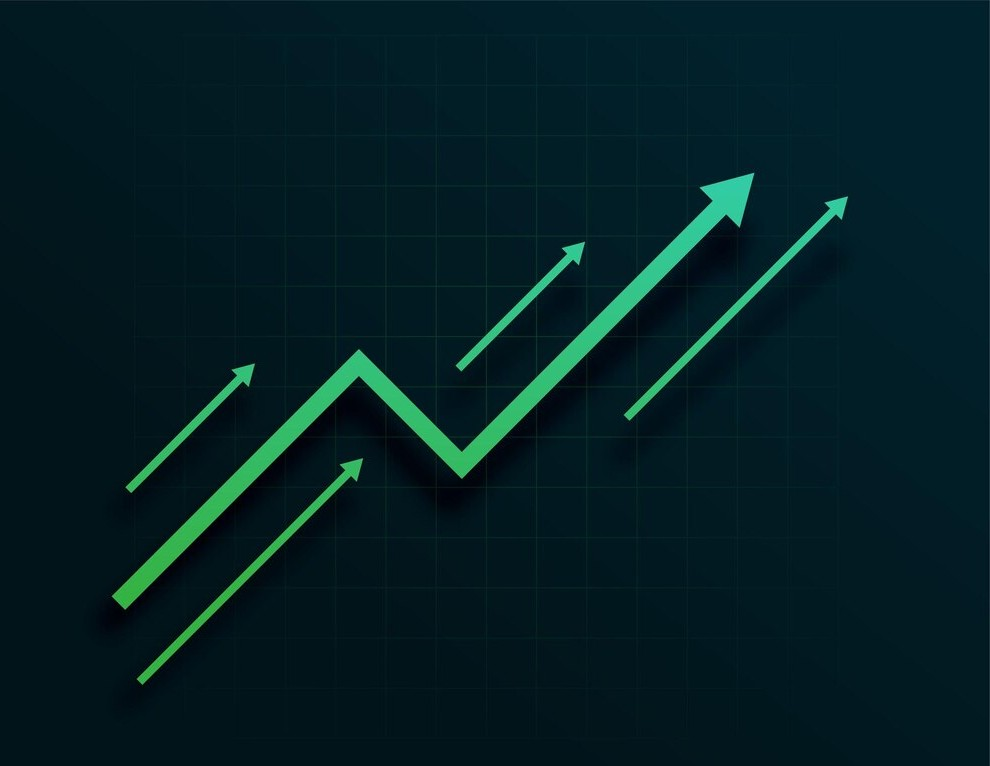
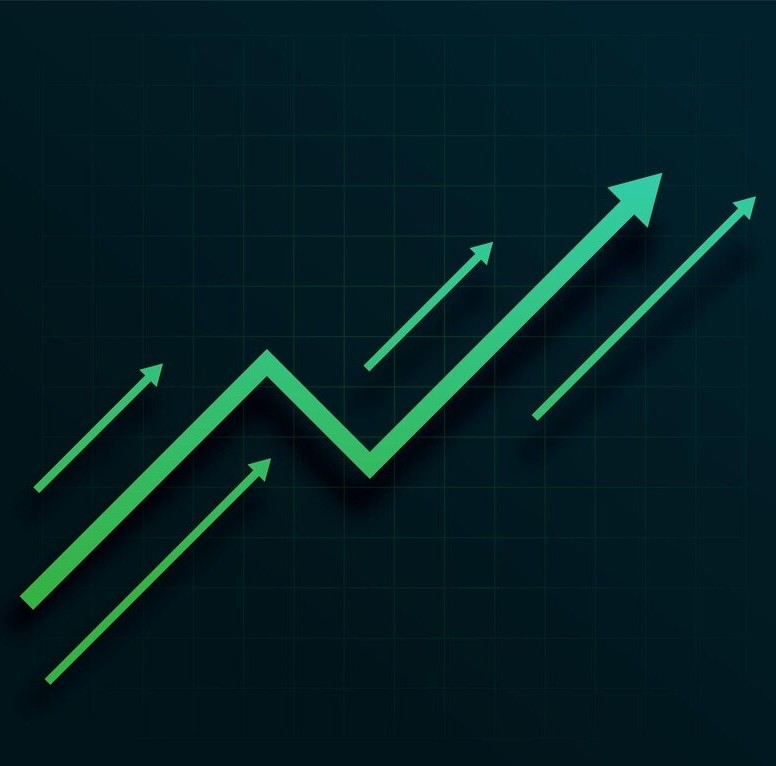
some refactor

diff --git a/src/Assets/CSS/Home.css b/src/Assets/CSS/Home.css
@@ -122,38 +122,94 @@
   margin: 0;
   font-size: 1.2rem;
 }
-.key-stakeholders {
+/* Add this CSS for the title */
+.section-title {
+  font-family: 'Poppins', sans-serif; /* Modern font */
+  font-size: clamp(2rem, 5vw, 3rem); /* Responsive font size */
+  font-weight: 700;
+  text-align: center;
+  color: #2d3748;
+  margin-bottom: 2rem;
+  letter-spacing: -0.5px;
+  line-height: 1.2;
+  text-transform: capitalize;
   position: relative;
-  width: 100%;
-  background-color: #f8f9fa; /* Light background for the logos section */
-  padding: 20px 0; /* Adjust padding as necessary */
+  padding-bottom: 0.5em;
+}
+
+.section-title::after {
+  content: '';
+  position: absolute;
   bottom: 0;
-  box-shadow: none; /* Remove shadow */
+  left: 50%;
+  transform: translateX(-50%);
+  width: 80px;
+  height: 3px;
+  background: #4299e1; /* Accent color */
+  border-radius: 2px;
 }
 
-.key-stakeholders .container {
-  display: flex;
-  justify-content: center;
+/* Add this to your CSS imports or HTML head */
+/* <link href="https://fonts.googleapis.com/css2?family=Poppins:wght@400;500;700&display=swap" rel="stylesheet"> */
+.key-stakeholders {
+  overflow: hidden;
+  padding: 2rem 0;
+  background: transparent;
+  position: relative;
 }
 
-.key-stakeholders .logo-container {
+.logo-track {
   display: flex;
+  width: 200%; /* Double width for seamless transition */
+  animation: scroll 20s linear infinite;
+}
+
+.logo-container {
+  display: flex;
+  justify-content: space-around;
   align-items: center;
-  justify-content: center;
-  gap: 50px; /* Adjust the gap between logos */
+  width: 50%; /* Half of track width */
+  gap: 4rem; /* Control spacing between logos */
+  padding: 1rem 0;
 }
 
 .stakeholder-logo {
-  height: 80px; /* Increase size of the logos */
-  width: auto;
+  width: 120px; /* Adjust logo size */
+  height: auto;
+  object-fit: contain;
+  flex-shrink: 0;
   transition: transform 0.3s ease;
 }
 
-.stakeholder-logo:hover {
-  transform: scale(1.1); /* Slight zoom effect on hover */
+@keyframes scroll {
+  0% {
+    transform: translateX(0);
+  }
+  100% {
+    transform: translateX(-50%); /* Move by half width */
+  }
 }
 
-/* "Our Achievements" Section */
+/* Optional: Pause on hover */
+.logo-track:hover {
+  animation-play-state: paused;
+}
+
+/* Optional: Hover effect */
+.stakeholder-logo:hover {
+  transform: scale(1.1);
+}
+
+/* Accessibility: Respect reduced motion */
+@media (prefers-reduced-motion: reduce) {
+  .logo-track {
+    animation: none;
+    width: 100%;
+  }
+  .logo-container:last-child {
+    display: none;
+  }
+}
 
 /* "Our Achievements" Section */
 .achievements-section {

diff --git a/src/Assets/Components/Pages/Home.js b/src/Assets/Components/Pages/Home.js
@@ -7,7 +7,7 @@ import '../../CSS/Home.css';
 import img1 from '../../Images/stock1.png';
 import img2 from '../../Images/aboutbg.png';
 import img3 from '../../Images/businesswoman.jpg';
-import img4 from '../../Images/stock11.png';
+import img4 from '../../Images/stock11.jpg';
 import img5 from '../../Images/issiemenegment.jpg';
 import img6 from '../../Images/stock2.jpg';
 import img7 from '../../Images/stock20.jpg';
@@ -100,6 +100,25 @@ function Home() {
           </div>
         </SwiperSlide>
       </Swiper>
+      {/*Stackholder section*/}
+      <div className="key-stakeholders">
+        <h1 className="text-center section-title mb-4">Trusted Partners</h1>
+        <div className="logo-track">
+          <div className="logo-container">
+            <img src={logo1} alt="Stakeholder 1" className="stakeholder-logo" />
+            <img src={logo2} alt="Stakeholder 2" className="stakeholder-logo" />
+            <img src={logo3} alt="Stakeholder 3" className="stakeholder-logo" />
+            <img src={logo4} alt="Stakeholder 4" className="stakeholder-logo" />
+          </div>
+          {/* Mirror container for seamless loop */}
+          <div className="logo-container" aria-hidden="true">
+            <img src={logo1} alt="Stakeholder 1" className="stakeholder-logo" />
+            <img src={logo2} alt="Stakeholder 2" className="stakeholder-logo" />
+            <img src={logo3} alt="Stakeholder 3" className="stakeholder-logo" />
+            <img src={logo4} alt="Stakeholder 4" className="stakeholder-logo" />
+          </div>
+        </div>
+      </div>
 
       {/* Second Section: Services */}
       <div className="service-section container mt-5">
@@ -147,17 +166,7 @@ function Home() {
           </div>
         </div>
       </div>
-      {/*Stackholder section*/}
-      <div className="key-stakeholders">
-        <div className="container">
-          <div className="logo-container">
-            <img src={logo1} alt="Stakeholder 1" className="stakeholder-logo" />
-            <img src={logo2} alt="Stakeholder 2" className="stakeholder-logo" />
-            <img src={logo3} alt="Stakeholder 3" className="stakeholder-logo" />
-            <img src={logo4} alt="Stakeholder 4" className="stakeholder-logo" />
-          </div>
-        </div>
-      </div>
+
 
       {/*Achivement section*/}
       <div className="achievements-section container mt-5">

diff --git a/src/Assets/CSS/Contact.css b/src/Assets/CSS/Contact.css
@@ -13,46 +13,60 @@
   padding: 30px;
   text-align: center;
 }
+/*.contact-container {*/
+/*  background-color: #111; !* Dark background *!*/
+/*  color: white;*/
+/*  display: flex;*/
+/*  justify-content: space-between;*/
+/*  align-items: flex-start;*/
+/*  padding: 50px 30px;*/
+/*  gap: 30px;*/
+/*  flex-wrap: wrap;*/
+/*}*/
 
-.contact-details {
-  display: grid;
-  grid-template-columns: 1fr 1fr;
-  gap: 20px;
+.contact-info {
+  flex: 1;
+  min-width: 280px;
+  max-width: 600px;
 }
 
-.contact-info, .contact-map {
-  background-color: #fff;
-  padding: 20px;
-  box-shadow: 0 4px 8px rgba(0, 0, 0, 0.1);
+.contact-info h2 {
+  font-size: 36px;
+  font-weight: 700;
+  margin-bottom: 25px;
 }
 
-.map-container iframe {
+.contact-info p {
+  margin: 8px 0;
+  font-size: 18px;
+  line-height: 1.6;
+}
+
+.contact-map {
+  flex: 1;
+  min-width: 300px;
+  max-width: 600px;
+}
+
+.contact-map iframe {
   width: 100%;
-  border: none;
-  border-radius: 8px;
-  height: 100%;
+  height: 320px;
+  border: 0;
+  border-radius: 6px;
 }
 
 /* Responsive Design */
 @media (max-width: 768px) {
   .contact-container {
-    grid-template-columns: 1fr;
+    flex-direction: column;
+    padding: 30px 20px;
   }
 
-  .contact-hero {
-    grid-column: span 1;
-    padding: 20px;
+  .contact-info h2 {
+    font-size: 28px;
   }
 
-  .contact-details {
-    grid-template-columns: 1fr;
-  }
-
-  .contact-info, .contact-map {
-    padding: 15px;
-  }
-
-  .map-container iframe {
-    height: 300px; /* Adjust the height for smaller screens */
+  .contact-map iframe {
+    height: 250px;
   }
 }

diff --git a/src/Assets/Components/Pages/Contact.js b/src/Assets/Components/Pages/Contact.js
@@ -15,7 +15,7 @@ function Contact() {
           <h2>Contact Information</h2>
           <p><strong>Email:</strong> <a href="mailto:co@simclbd.com">co@simclbd.com</a></p>
           <p><strong>Phone:</strong> <a href="tel:+1234567890">+88 02-226 639248</a></p>
-          <p><strong>Address:</strong> 4th Floor LIFT - 4 Motahar lodge, 4 Purana Paltan</p>
+          <p><strong>Address:</strong> Motahar Lodge (4th Floor), 4-Purana Paltan, Dhaka – 1000</p>
         </div>
       </section>
       <section className="contact-map">
@@ -23,7 +23,7 @@ function Contact() {
         <div className="map-container">
           <iframe
             title="Company Location"
-            src="https://www.google.com/maps/embed?pb=!1m18!1m12!1m3!1d3651.849979932757!2d90.4111293!3d23.7324275!2m3!1f0!2f0!3f0!3m2!1i1024!2i768!4f13.1!3m3!1m2!1s0x3755b8c788a3dfbd%3A0x1a2b3c4d5e6f7g8!2sYour%20Location%20Name!5e0!3m2!1sen!2sbd!4v1691664492613!5m2!1sen!2sbd"
+            src="https://www.google.com/maps/embed?pb=!1m18!1m12!1m3!1d3652.417346590593!2d90.40853447598657!3d23.732492389462415!2m3!1f0!2f0!3f0!3m2!1i1024!2i768!4f13.1!3m3!1m2!1s0x3755b9e191b26691%3A0xcff39732b30c4573!2zTW90YWhhciBMb2RnZSB8IOCmruCni-CmpOCmvuCmueCmvuCmsCDgprLgppw!5e0!3m2!1sen!2sbd!4v1745434037815!5m2!1sen!2sbd"
             width="100%"
             height="400"
             style={{ border: 0 }}

diff --git a/src/Assets/Components/Header.js b/src/Assets/Components/Header.js
@@ -50,7 +50,7 @@ const Header = () => {
         <NavLink to="/" className="logo-link">
           <div className="logo-flex">
             <img src={logo} alt="Banco Logo" className="logo-image" />
-            <span className="company-name">SIM Capital Ltd..</span>
+            <span className="company-name">SIM Capital Limited</span>
           </div>
         </NavLink>
       </div>

diff --git a/src/Assets/Components/Pages/Portfolio.js b/src/Assets/Components/Pages/Portfolio.js
@@ -1,6 +1,6 @@
 import React from 'react';
 import { Container, Row, Col, Card, Image } from 'react-bootstrap';
-import img1 from '../../Images/stock11.png'
+import img1 from '../../Images/stock11.jpg'
 
 function Portfolio() {
   return (
